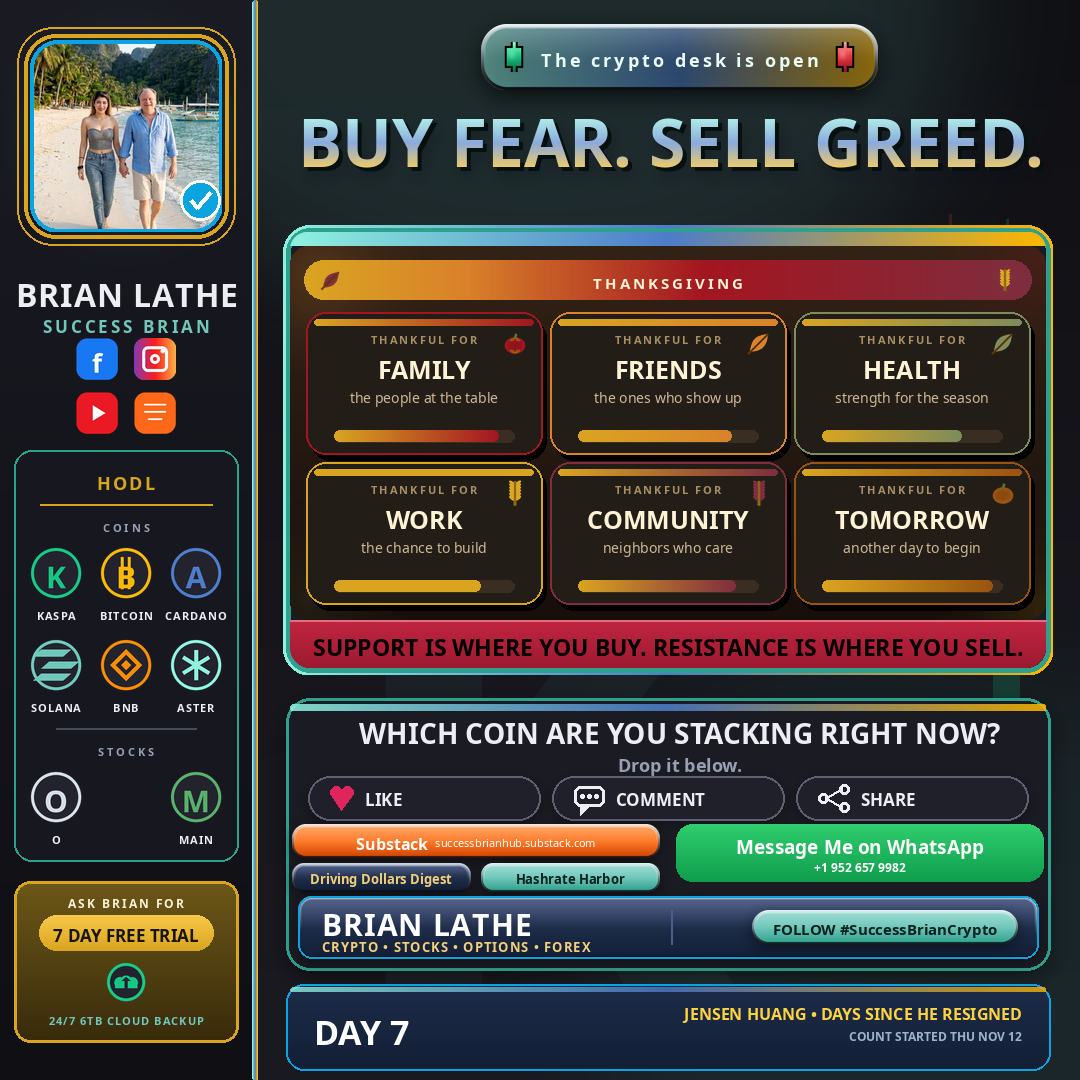
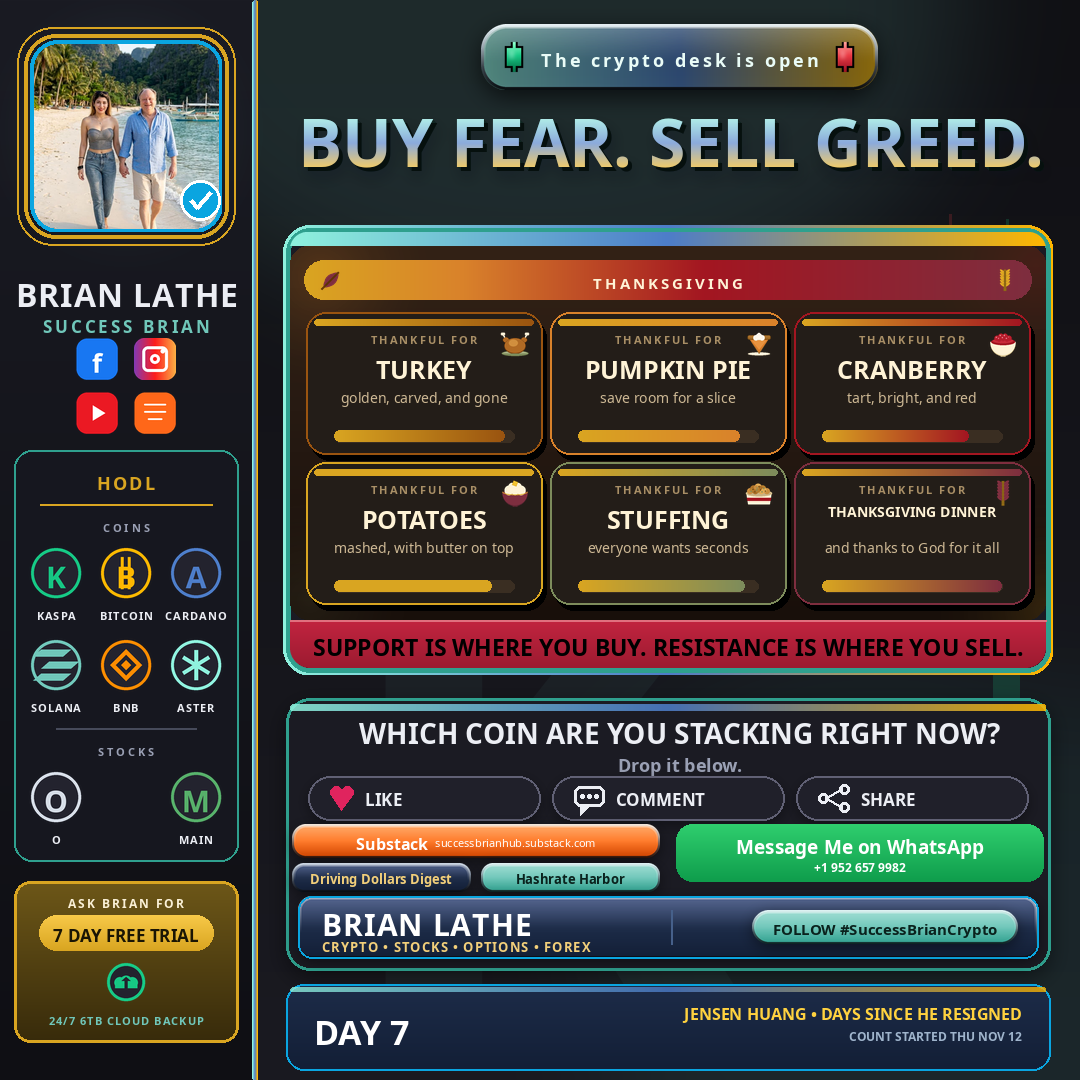
Thanksgiving capsule: the three strands -- food, gratitude, thankfulness to God (Brian 2026-11-18 23:49/23:50 CST)
Brian: "thanksgiving has TURKEY, pumpkin pie -- cranberry, potatoes,
stuffing" and "well, it has gratitude, thankfulness to GOD, and
food !!" Five drawn food glyphs (turkey, pumpkin pie, cranberry,
potatoes, stuffing) in the desk idiom now lead the original-card
capsule: the five dishes named under the THANKFUL FOR register plus
a THANKSGIVING DINNER title card ("and thanks to God for it all").
The quote capsule keeps its gratitude quote, gains the food-glyph
row, and its subline thanks God for the table in plain words.
Theme-off renders stay byte-identical (crypto default md5
ffaa95274c3d59ccfce515b2eaf3a71f verified).

diff --git a/tools/audience/seasonal_capsules.py b/tools/audience/seasonal_capsules.py
@@ -47,11 +47,32 @@ turn -- no other season is implemented in this file yet.
 THANKSGIVING TREATMENT: a harvest palette (deep amber,
 cranberry -- kin to the format's garnet -- warm gold, sage,
 cream, bark) and drawn motifs in the desk's supersampled
-idiom (leaf, pumpkin, wheat -- no scraped clip-art), a
-seasonal header strip for the capsule, and type dressing
-that follows the format's case map: header and card labels
-ALL CAPS, display words ALL CAPS on cards, quotes and notes
-in sentence case.
+idiom (the five dishes below, dressed with leaf, pumpkin
+and wheat -- no scraped clip-art), a seasonal header strip
+for the capsule, and type dressing that follows the
+format's case map: header and card labels ALL CAPS,
+display words ALL CAPS on cards, quotes and notes in
+sentence case.
+
+THANKSGIVING IS THREE STRANDS (Brian's completion,
+2026-11-18 23:50 CST: "well, it has gratitude,
+thankfulness to GOD, and food !!"), completing his
+23:49 CST ruling ("thanksgiving has TURKEY, pumpkin
+pie -- cranberry, potatoes, stuffing"):
+  1. FOOD -- the five dishes lead the original-card
+     capsule, each drawn and named: TURKEY, PUMPKIN PIE,
+     CRANBERRY, POTATOES, STUFFING -- plus a THANKSGIVING
+     DINNER title card in the sixth slot.
+  2. GRATITUDE -- the THANKFUL FOR register rides every
+     card, and the quote capsule keeps its gratitude
+     quote.
+  3. THANKFULNESS TO GOD -- plain words, in Brian's own
+     register (his public identity line carries FAITH):
+     the quote capsule's subline thanks God for the
+     table, and the title card's note does the same.
+     Plain-spoken, never preachy, never denominational.
+All three strands land in one look across the two proof
+capsules: the grid is the table, the quote is the thanks.
 """
 
 import math
@@ -97,36 +118,40 @@ THANKSGIVING = {
     "ink": "#2b1a10",
 }
 
-# Sample proof content -- season-true, generic gratitude content
-# in Brian's voice register. No promotions, no product claims.
-# Drivers may pass their own content; these defaults exist so a
-# proof render always has honest sample content.
+# Sample proof content -- season-true, in Brian's voice
+# register, carrying the three strands: the food leads,
+# gratitude rides every card's THANKFUL FOR tag, and the
+# thanks to God is said in plain words. No promotions, no
+# product claims. Drivers may pass their own content; these
+# defaults exist so a proof render always has honest
+# sample content.
 SAMPLE_QUOTE_LINES = (
     "Gratitude turns",
     "ordinary days",
     "into blessings.",
 )
-SAMPLE_QUOTE_SUBLINE = "Thankful for family, friends, and the road ahead."
+SAMPLE_QUOTE_SUBLINE = \
+    "Thank God for this table, this food, and the people around it."
 
 THANKSGIVING_CARDS = (
-    {"tag": "THANKFUL FOR", "title": "FAMILY",
-     "note": "the people at the table", "frac": 0.92,
-     "color": THANKSGIVING["cranberry"], "glyph": "pumpkin"},
-    {"tag": "THANKFUL FOR", "title": "FRIENDS",
-     "note": "the ones who show up", "frac": 0.86,
-     "color": THANKSGIVING["amber"], "glyph": "leaf"},
-    {"tag": "THANKFUL FOR", "title": "HEALTH",
-     "note": "strength for the season", "frac": 0.78,
-     "color": THANKSGIVING["sage"], "glyph": "leaf"},
-    {"tag": "THANKFUL FOR", "title": "WORK",
-     "note": "the chance to build", "frac": 0.82,
-     "color": THANKSGIVING["gold"], "glyph": "wheat"},
-    {"tag": "THANKFUL FOR", "title": "COMMUNITY",
-     "note": "neighbors who care", "frac": 0.88,
+    {"tag": "THANKFUL FOR", "title": "TURKEY",
+     "note": "golden, carved, and gone", "frac": 0.95,
+     "color": THANKSGIVING["deep_amber"], "glyph": "turkey"},
+    {"tag": "THANKFUL FOR", "title": "PUMPKIN PIE",
+     "note": "save room for a slice", "frac": 0.9,
+     "color": THANKSGIVING["amber"], "glyph": "pumpkin_pie"},
+    {"tag": "THANKFUL FOR", "title": "CRANBERRY",
+     "note": "tart, bright, and red", "frac": 0.82,
+     "color": THANKSGIVING["cranberry"], "glyph": "cranberry"},
+    {"tag": "THANKFUL FOR", "title": "POTATOES",
+     "note": "mashed, with butter on top", "frac": 0.88,
+     "color": THANKSGIVING["gold"], "glyph": "potatoes"},
+    {"tag": "THANKFUL FOR", "title": "STUFFING",
+     "note": "everyone wants seconds", "frac": 0.93,
+     "color": THANKSGIVING["sage"], "glyph": "stuffing"},
+    {"tag": "THANKFUL FOR", "title": "THANKSGIVING DINNER",
+     "note": "and thanks to God for it all", "frac": 1.0,
      "color": THANKSGIVING["garnet"], "glyph": "wheat"},
-    {"tag": "THANKFUL FOR", "title": "TOMORROW",
-     "note": "another day to begin", "frac": 0.95,
-     "color": THANKSGIVING["deep_amber"], "glyph": "pumpkin"},
 )
 
 
@@ -203,7 +228,9 @@ def _clip(img, tile, box, radius=18):
 
 
 # ------------------------------------------------------------------
-# Drawn harvest glyphs -- leaf, pumpkin, wheat. 4x supersampled.
+# Drawn glyphs -- the five dishes of the Thanksgiving table
+# (turkey, pumpkin pie, cranberry, potatoes, stuffing),
+# dressed with leaf, pumpkin, wheat. 4x supersampled.
 # ------------------------------------------------------------------
 def glyph(kind, size, color=None):
     S = 4
@@ -276,6 +303,196 @@ def glyph(kind, size, color=None):
                            int(gy - tile.height / 2)))
         d = ImageDraw.Draw(im)
         d.line([(cx, bot), (cx, top)], fill=dark, width=2 * S)
+    elif kind == "turkey":
+        # a roast turkey: two drumsticks up behind a plump
+        # browned body, the bird resting on a platter
+        body_c = _rgba("#b06a24")
+        deep = _rgba("#7e4410")
+        lite = _rgba("#d18f3e")
+        bone = _rgba("#f7ecd4")
+        cx, cy = s * 0.5, s * 0.60
+        # platter (behind everything)
+        d.ellipse([s * 0.05, s * 0.76, s * 0.95, s * 0.94],
+                  fill=_rgba(P["sage"]))
+        d.ellipse([s * 0.10, s * 0.775, s * 0.90, s * 0.915],
+                  fill=_rgba("#a7b184"))
+        # drumsticks: bone out to a knobbed tip, meat bulb
+        # at its base, peeking past the body's shoulders
+        for sgn in (-1, 1):
+            tx, ty = cx + sgn * s * 0.40, cy - s * 0.40
+            mx, my = cx + sgn * s * 0.30, cy - s * 0.20
+            d.line([(mx, my), (tx, ty)], fill=bone,
+                   width=max(2, int(s * 0.05)))
+            for dx in (-0.032, 0.032):
+                d.ellipse([tx + dx * s - s * 0.042, ty - s * 0.042,
+                           tx + dx * s + s * 0.042, ty + s * 0.042],
+                          fill=bone)
+            d.ellipse([mx - s * 0.105, my - s * 0.09,
+                       mx + s * 0.105, my + s * 0.09], fill=deep)
+            d.ellipse([mx - s * 0.088, my - s * 0.078,
+                       mx + s * 0.088, my + s * 0.068], fill=body_c)
+        # the body: layered ellipses for roasted shading
+        rx, ry = s * 0.355, s * 0.265
+        d.ellipse([cx - rx, cy - ry, cx + rx, cy + ry], fill=deep)
+        d.ellipse([cx - rx * 0.95, cy - ry * 0.96,
+                   cx + rx * 0.95, cy + ry * 0.86], fill=body_c)
+        d.ellipse([cx - rx * 0.58, cy - ry * 0.80,
+                   cx + rx * 0.28, cy + ry * 0.05], fill=lite)
+        # platter front rim over the body's foot
+        d.pieslice([s * 0.05, s * 0.76, s * 0.95, s * 0.94],
+                   0, 180, fill=_rgba(P["sage"]))
+        d.arc([s * 0.05, s * 0.76, s * 0.95, s * 0.94],
+              0, 180, fill=_rgba("#5f6b41"),
+              width=max(2, int(s * 0.02)))
+    elif kind == "pumpkin_pie":
+        # a slice of pumpkin pie on a plate: crimped crust
+        # along the back edge, a whipped-cream dollop on top
+        crust = _rgba("#a8702a")
+        crust_dk = _rgba("#7e4f16")
+        fill0 = _rgba("#d97b29")
+        fill1 = _rgba("#e8933f")
+        cream = _rgba("#fff8ec")
+        cream_sh = _rgba("#eedfc2")
+        # plate
+        d.ellipse([s * 0.13, s * 0.815, s * 0.87, s * 0.915],
+                  fill=_rgba("#e9dcbc"))
+        d.ellipse([s * 0.17, s * 0.82, s * 0.83, s * 0.895],
+                  fill=_rgba("#f7eeda"))
+        # crust wedge, slightly proud of the filling
+        d.polygon([(s * 0.14, s * 0.30), (s * 0.86, s * 0.30),
+                   (s * 0.50, s * 0.86)], fill=crust)
+        # filling, with a lit inner wedge
+        d.polygon([(s * 0.20, s * 0.38), (s * 0.80, s * 0.38),
+                   (s * 0.50, s * 0.80)], fill=fill0)
+        d.polygon([(s * 0.26, s * 0.42), (s * 0.74, s * 0.42),
+                   (s * 0.50, s * 0.72)], fill=fill1)
+        # crimped crust rim along the back edge
+        d.rounded_rectangle([s * 0.12, s * 0.24, s * 0.88, s * 0.38],
+                            int(s * 0.05), fill=crust_dk)
+        d.rounded_rectangle([s * 0.14, s * 0.25, s * 0.86, s * 0.35],
+                            int(s * 0.04), fill=crust)
+        # the dollop: lobes on a shaded base, peak on top
+        for base, col in ((0.016, cream_sh), (0.0, cream)):
+            for (dx, dy, r) in ((-0.10, 0.02, 0.085),
+                                (0.10, 0.02, 0.085),
+                                (0.0, -0.015, 0.105),
+                                (0.0, -0.085, 0.055)):
+                ccx, ccy = s * (0.5 + dx), s * (0.30 + dy + base)
+                d.ellipse([ccx - r * s, ccy - r * s,
+                           ccx + r * s, ccy + r * s], fill=col)
+    elif kind == "cranberry":
+        # a bowl of cranberry sauce, whole berries heaped
+        # and glistening on top of the sauce's surface
+        red = _rgba(P["cranberry"])
+        red_lt = _rgba("#c92a38")
+        berry = _rgba("#b81d2c")
+        bowl = _rgba(P["cream"])
+        bowl_dk = _rgba("#d9c491")
+        # bowl foot, then the bowl's shaded under-edge
+        d.rounded_rectangle([s * 0.42, s * 0.87, s * 0.58, s * 0.95],
+                            int(s * 0.02), fill=bowl_dk)
+        d.pieslice([s * 0.08, s * 0.06, s * 0.92, s * 0.94],
+                   0, 180, fill=bowl_dk)
+        d.pieslice([s * 0.08, s * 0.02, s * 0.92, s * 0.90],
+                   0, 180, fill=bowl)
+        # sauce surface (its rim sits at y .46)
+        d.ellipse([s * 0.10, s * 0.35, s * 0.90, s * 0.57], fill=red)
+        d.ellipse([s * 0.16, s * 0.355, s * 0.84, s * 0.50],
+                  fill=red_lt)
+        # the berries, each with a lit speck
+        for (dx, dy, r) in ((-0.20, -0.02, 0.085),
+                            (-0.07, -0.075, 0.095),
+                            (0.07, -0.075, 0.095),
+                            (0.20, -0.02, 0.085),
+                            (0.0, -0.01, 0.09),
+                            (-0.13, 0.015, 0.08),
+                            (0.13, 0.015, 0.08)):
+            ccx, ccy = s * (0.5 + dx), s * (0.36 + dy)
+            d.ellipse([ccx - r * s, ccy - r * s,
+                       ccx + r * s, ccy + r * s], fill=berry)
+            d.ellipse([ccx - r * s * 0.45, ccy - r * s * 0.55,
+                       ccx - r * s * 0.05, ccy - r * s * 0.15],
+                      fill=_rgba("#e88a94"))
+    elif kind == "potatoes":
+        # a bowl of mashed potatoes: a creamy cloud of a
+        # mound with a pat of butter melting on top
+        bowl = _rgba(P["garnet"])
+        bowl_dk = _rgba("#5e2432")
+        mound = _rgba("#fff3d6")
+        mound_sh = _rgba("#e0c48c")
+        butter = _rgba("#f2c230")
+        # bowl: shaded under-edge, body, gold rim (rim at y .46)
+        d.rounded_rectangle([s * 0.42, s * 0.87, s * 0.58, s * 0.95],
+                            int(s * 0.02), fill=bowl_dk)
+        d.pieslice([s * 0.08, s * 0.06, s * 0.92, s * 0.94],
+                   0, 180, fill=bowl_dk)
+        d.pieslice([s * 0.08, s * 0.02, s * 0.92, s * 0.90],
+                   0, 180, fill=bowl)
+        # the mound: shaded lobes under lit ones
+        lobes = ((0.30, 0.40, 0.15), (0.50, 0.33, 0.175),
+                 (0.70, 0.40, 0.15), (0.40, 0.28, 0.12),
+                 (0.60, 0.28, 0.12), (0.50, 0.43, 0.125))
+        for (lx, ly, r) in lobes:
+            d.ellipse([s * (lx - r), s * (ly - r + 0.025),
+                       s * (lx + r), s * (ly + r + 0.025)],
+                      fill=mound_sh)
+        for (lx, ly, r) in lobes:
+            d.ellipse([s * (lx - r), s * (ly - r),
+                       s * (lx + r), s * (ly + r)], fill=mound)
+        # the rim's front arc, tracing the bowl's mouth in
+        # front of the mound's foot
+        d.arc([s * 0.08, s * 0.35, s * 0.92, s * 0.57],
+              0, 180, fill=_rgba(P["gold"]),
+              width=max(2, int(s * 0.025)))
+        # the butter pat, tilted, on the mound's peak
+        bcx, bcy, bd = s * 0.5, s * 0.185, s * 0.075
+        ca, sa = math.cos(0.35), math.sin(0.35)
+        pts = []
+        for (px, py) in ((-1, -1), (1, -1), (1, 1), (-1, 1)):
+            pts.append((bcx + (px * ca - py * sa) * bd,
+                        bcy + (px * sa + py * ca) * bd))
+        d.polygon(pts, fill=butter, outline=_rgba("#c9930a"))
+    elif kind == "stuffing":
+        # a baking dish heaped with stuffing: a crumbly
+        # golden-brown mound, flecked with herb, in a
+        # cream dish with a cranberry stripe
+        dish = _rgba(P["cream"])
+        dish_dk = _rgba("#d9c491")
+        crumbs = ("#c98d3f", "#a96f27", "#e0aa54", "#b57e2f")
+        # dish body, then its rim
+        d.polygon([(s * 0.08, s * 0.50), (s * 0.92, s * 0.50),
+                   (s * 0.86, s * 0.88), (s * 0.14, s * 0.88)],
+                  fill=dish)
+        d.polygon([(s * 0.095, s * 0.66), (s * 0.905, s * 0.66),
+                   (s * 0.885, s * 0.76), (s * 0.115, s * 0.76)],
+                  fill=_rgba(P["cranberry"]))
+        d.ellipse([s * 0.06, s * 0.40, s * 0.94, s * 0.62],
+                  fill=dish_dk)
+        d.ellipse([s * 0.10, s * 0.425, s * 0.90, s * 0.595],
+                  fill=_rgba("#c9b183"))
+        # the mound: overlapping crumb circles along an arc,
+        # roughed up with smaller crumbs in the gaps so it
+        # reads crumbly, not like a row of rolls
+        mound_pts = ((0.20, 0.44, 0.10), (0.32, 0.36, 0.115),
+                     (0.47, 0.315, 0.125), (0.62, 0.36, 0.115),
+                     (0.76, 0.44, 0.10), (0.38, 0.44, 0.10),
+                     (0.58, 0.44, 0.10), (0.26, 0.40, 0.065),
+                     (0.40, 0.315, 0.07), (0.55, 0.325, 0.06),
+                     (0.69, 0.405, 0.065), (0.47, 0.42, 0.07))
+        for i, (lx, ly, r) in enumerate(mound_pts):
+            d.ellipse([s * (lx - r), s * (ly - r),
+                       s * (lx + r), s * (ly + r)],
+                      fill=_rgba(crumbs[i % len(crumbs)]))
+        # flecks: dark crumb and sage herb specks
+        for i, (fx, fy) in enumerate(((0.30, 0.38), (0.44, 0.33),
+                                      (0.55, 0.40), (0.66, 0.35),
+                                      (0.36, 0.46), (0.60, 0.46),
+                                      (0.50, 0.29), (0.24, 0.45),
+                                      (0.71, 0.44), (0.42, 0.40))):
+            col = _rgba("#6d4a15") if i % 2 == 0 else _rgba(P["sage"])
+            r = s * 0.017
+            d.ellipse([s * fx - r, s * fy - r, s * fx + r,
+                       s * fy + r], fill=col)
     else:
         raise ValueError(f"unknown glyph: {kind}")
     return im.resize((size, size), Image.LANCZOS)
@@ -374,15 +591,18 @@ def draw_quote_capsule(img, box, skin="dark", lines=None,
         sf, _ = _fit(subline, 17, w - 120, bold=False, floor=12)
         _centered(d, w / 2, h - 92, subline, sf,
                   _rgba(muted) if isinstance(muted, tuple) else muted)
-    # the glyph row: leaf - pumpkin - wheat, drawn, centred
-    kinds = ("leaf", "pumpkin", "wheat")
-    sizes = (40, 52, 40)
-    total_w = sum(sizes) + 28
+    # the glyph row: the table itself, drawn and centred --
+    # cranberry, potatoes, the turkey in the middle,
+    # stuffing, pumpkin pie, all bottom-aligned
+    kinds = ("cranberry", "potatoes", "turkey", "stuffing",
+             "pumpkin_pie")
+    sizes = (36, 40, 54, 40, 36)
+    total_w = sum(sizes) + 12 * (len(sizes) - 1)
     gx = (w - total_w) // 2
     for kind, gs in zip(kinds, sizes):
         g = glyph(kind, gs)
-        tile.alpha_composite(g, (gx, h - 66 + (52 - gs) // 2))
-        gx += gs + 14
+        tile.alpha_composite(g, (gx, h - 12 - gs))
+        gx += gs + 12
     _clip(img, tile, box, radius=18)
     return box
 
